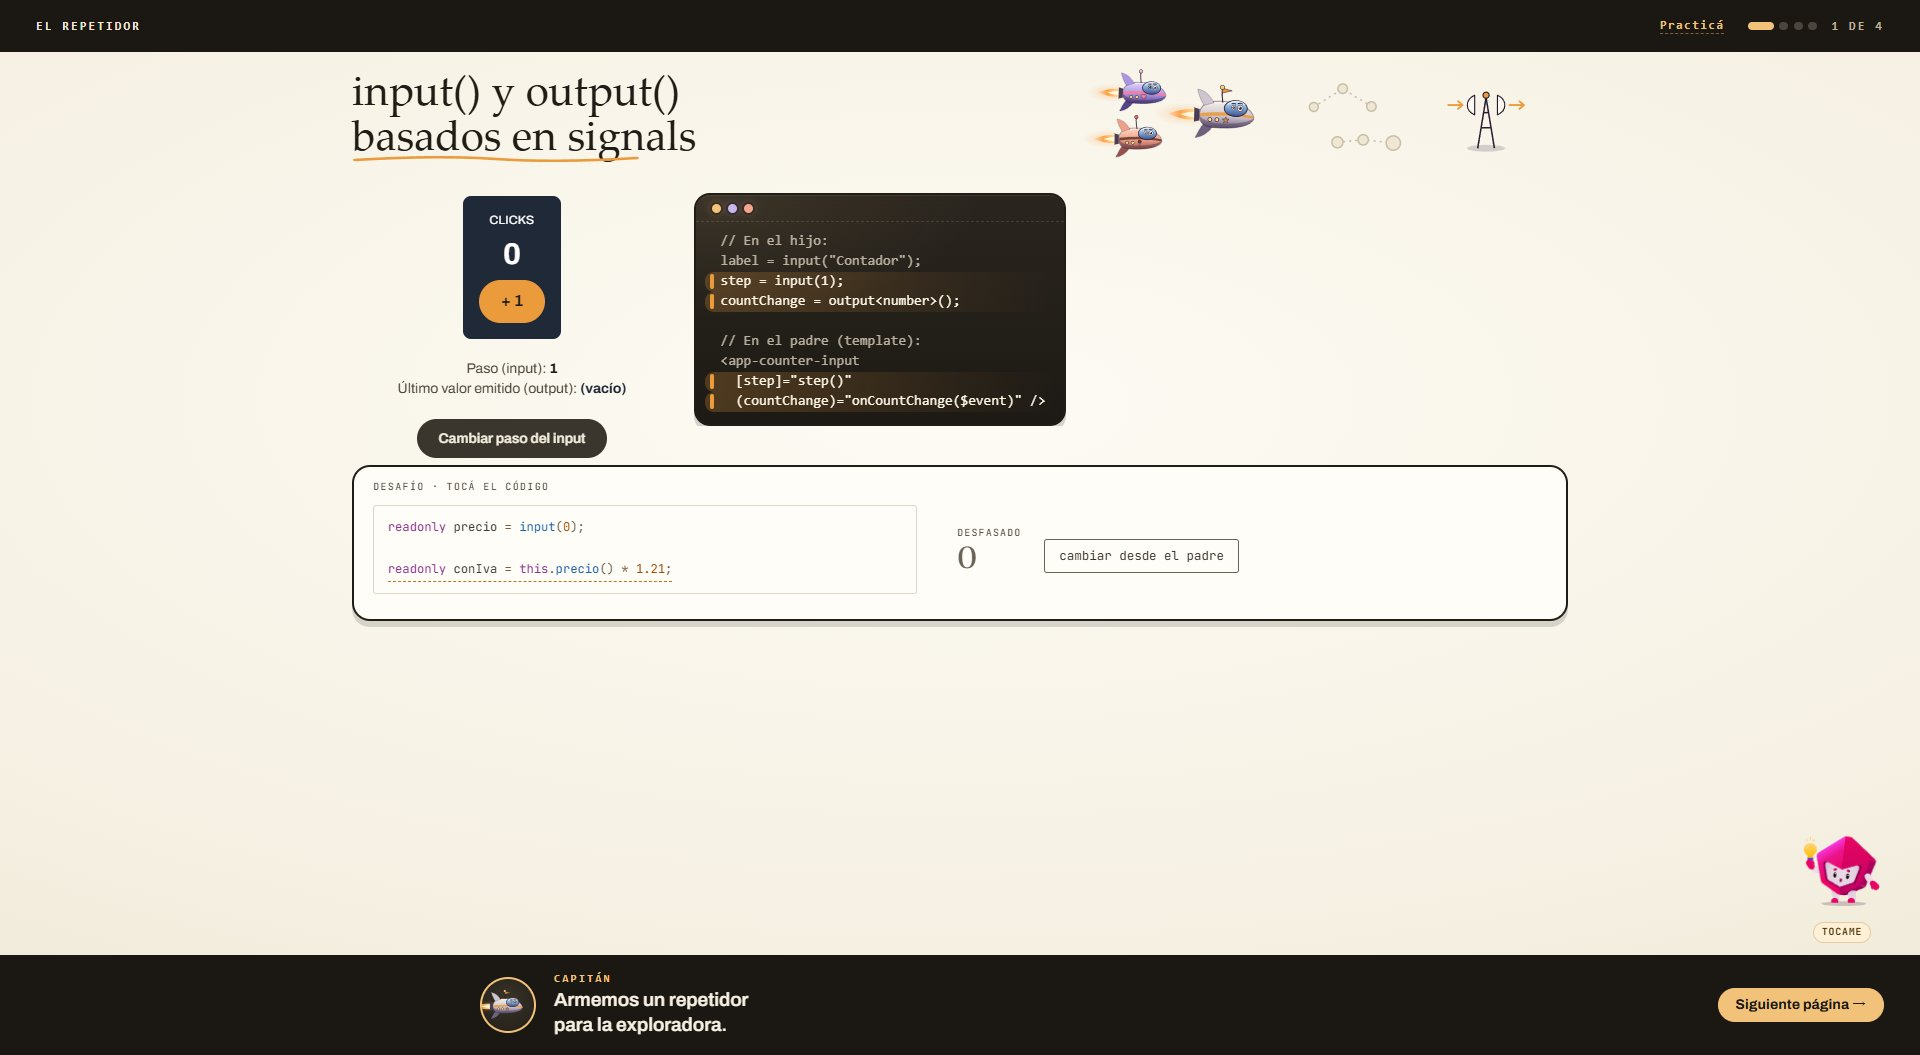
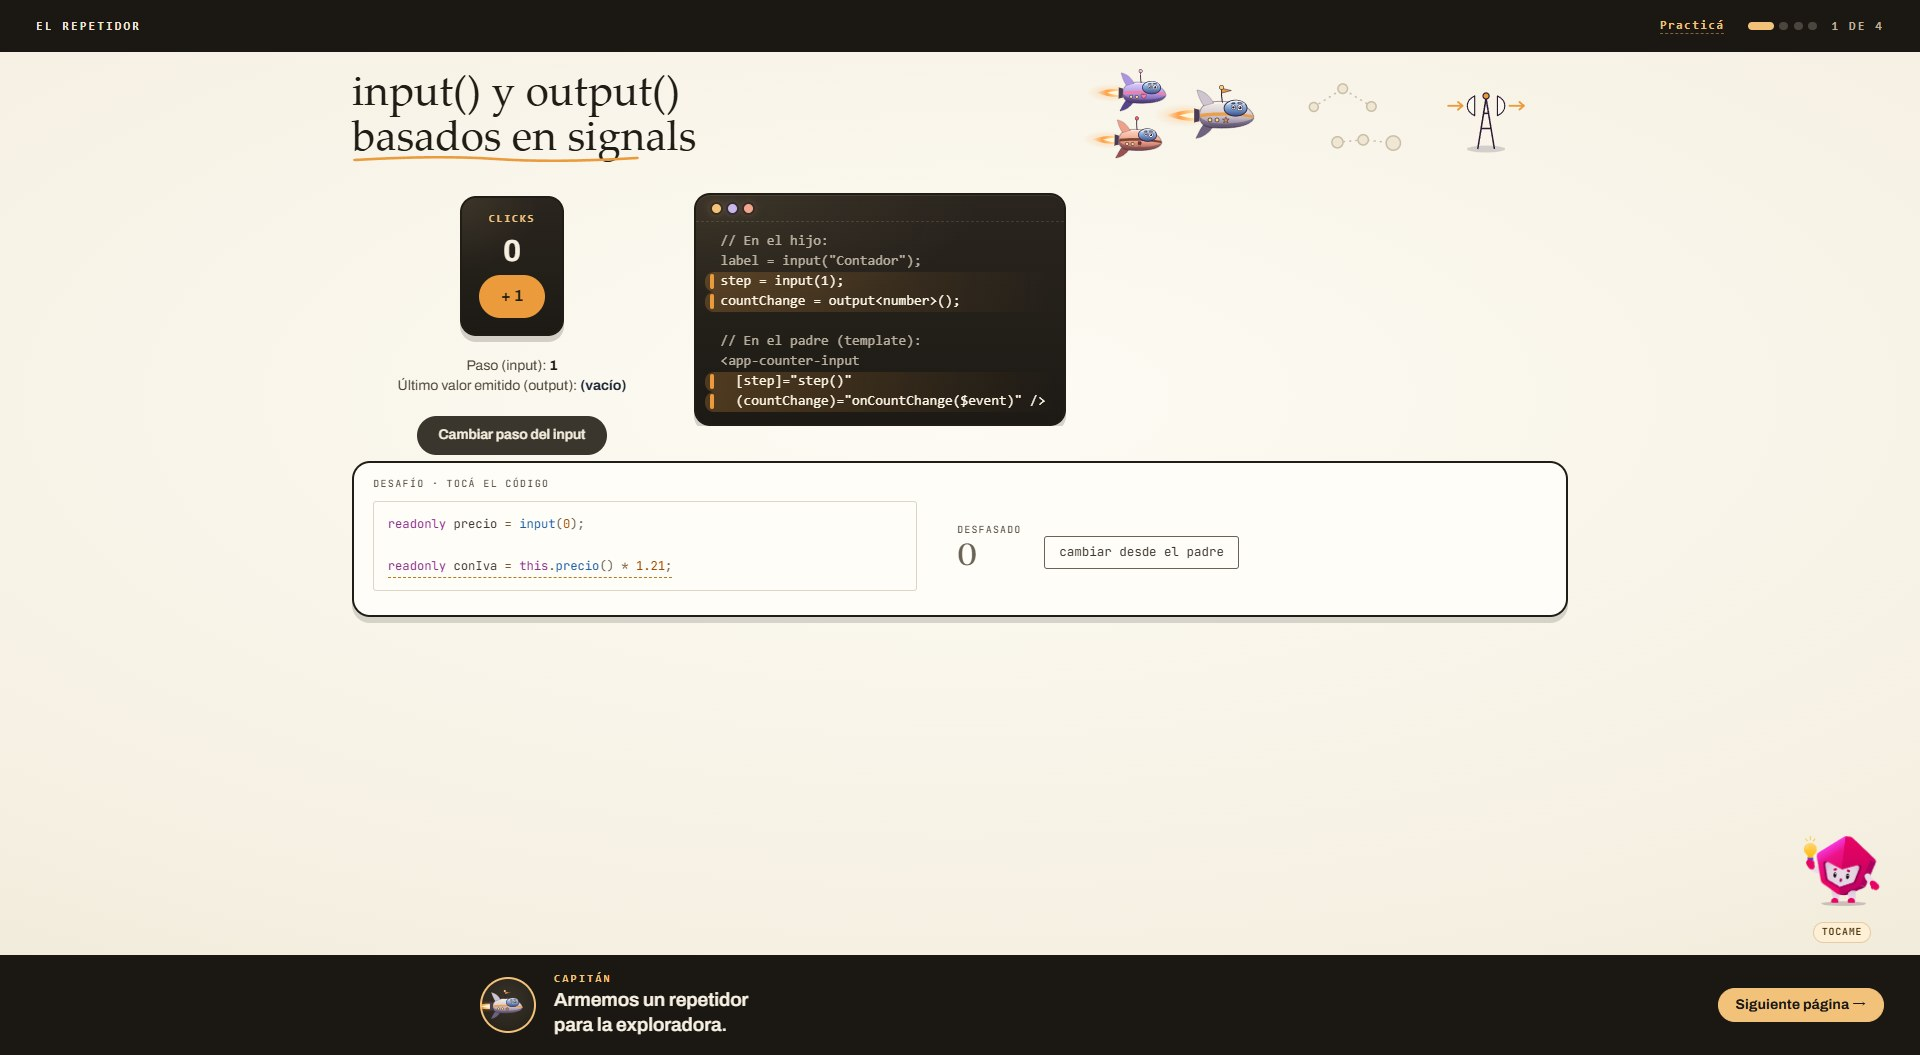
docs: la captura del README con el contador nuevo y el checklist

diff --git a/DESIGN-CHECKLIST.md b/DESIGN-CHECKLIST.md
@@ -1357,7 +1357,9 @@ Del minijuego de operadores (2026-11-08):
 - [ ] Ningún aparato viejo queda en la hoja: la caja de una variable es la caja naranja del signal
       (su valor salta al cambiar), las dependencias son una ficha de papel con su nombre en tinta
       sobre el borde, y el historial son renglones que entran con un salto (los últimos cuatro: con
-      todos crecía con cada click). Sin paneles `bg-gray-800` ni botones azules de Tailwind.
+      todos crecía con cada click). Sin paneles `bg-gray-800` ni botones azules de Tailwind. El
+      contador hijo del capítulo 7 (`app-counter-input`) seguía en gris azulado y salía así en la
+      captura del README: es un aparato con la tinta de la pantalla del código.
 - [ ] Cada página del viaje tiene su línea al llegar y otra al resolver (`guion-del-viaje.ts`, con
       spec: las 33 páginas, las reglas del guion y dos naves distintas por página, porque es una
       charla). Las naves miran lo que se toca, una se entera con un respingo, festejan lo resuelto
